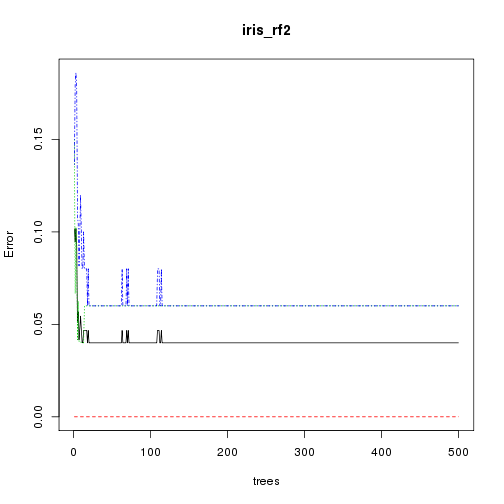
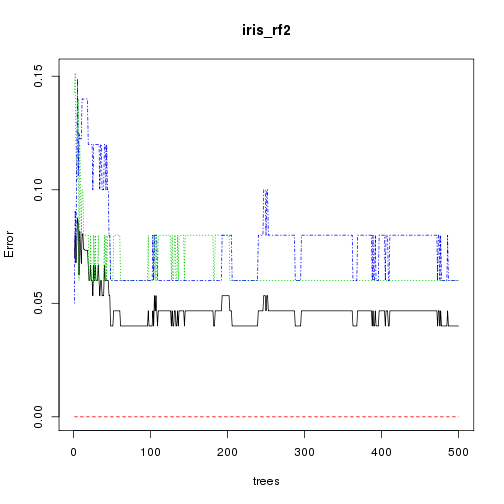
automatic build of site

diff --git a/_posts/2015-01-15-06-Analyze.md b/_posts/2015-01-15-06-Analyze.md
@@ -54,12 +54,12 @@ iris_rf
 ##                      Number of trees: 500
 ## No. of variables tried at each split: 2
 ## 
-##         OOB estimate of  error rate: 4%
+##         OOB estimate of  error rate: 4.67%
 ## Confusion matrix:
 ##            setosa versicolor virginica class.error
 ## setosa         50          0         0        0.00
 ## versicolor      0         47         3        0.06
-## virginica       0          3        47        0.06
+## virginica       0          4        46        0.08
 {% endhighlight %}
 
 Can we predict species, well, I'd say so!  
@@ -121,4 +121,28 @@ For this exercise we are going to implement random forest and try to predict the
 1. Add a new secion to the script
 2. Build your model to predict RT_NLA.  You may specify the model however makes the most sense
 3. Print to the screen your result, plot the error and variable importance. When finished put a green sticky up and we will come around to check.
+
+##Learning a New Package
+
+As of Jan 12, 2015, there were 6187 packages available on [CRAN](http://cran.r-project.org/web/packages/).  Since these packages are created and maintained by many different authors, the ways in which you can get help on a specific package and the quality of that assistance can vary greatly.  That being said, there are a few indicators of decent help within a given package.
+
+First, if a package has a vignette that is usually a good first place to start.  To list the vignettes for a given package you can use the `vignette()` function.  For instance:
+
+
+{% highlight r %}
+vignette(package="knitr")
+{% endhighlight %}
+
+Second, it is becoming increasingly common to see journal articles about packages.  Many journals now accept software manuscripts, but the journals I most often use for finding out about new R packages are:
+
+*note: This is a VERY incomplete list...*
+
+- [Journal of Statistical Software](http://www.jstatsoft.org/)
+- [R Journal](http://journal.r-project.org/)
+- [F1000 Research](http://f1000research.com/search?q=R%20Package&sortingBy=&sortingOrder=&indexed=&articleTypes=SOFTWARE_TOOLS)
+- [PLoS One](http://www.plosone.org/search/simple?from=globalSimpleSearch&filterJournals=PLoSONE&query=R+Package&x=0&y=0)
+
+Third, the last resort is of course [Google](http://www.google.com)!  
+
+
 

diff --git a/rmd_posts/2015-01-15-06-Analyze.md b/rmd_posts/2015-01-15-06-Analyze.md
@@ -54,12 +54,12 @@ iris_rf
 ##                      Number of trees: 500
 ## No. of variables tried at each split: 2
 ## 
-##         OOB estimate of  error rate: 4%
+##         OOB estimate of  error rate: 4.67%
 ## Confusion matrix:
 ##            setosa versicolor virginica class.error
 ## setosa         50          0         0        0.00
 ## versicolor      0         47         3        0.06
-## virginica       0          3        47        0.06
+## virginica       0          4        46        0.08
 {% endhighlight %}
 
 Can we predict species, well, I'd say so!  
@@ -121,4 +121,28 @@ For this exercise we are going to implement random forest and try to predict the
 1. Add a new secion to the script
 2. Build your model to predict RT_NLA.  You may specify the model however makes the most sense
 3. Print to the screen your result, plot the error and variable importance. When finished put a green sticky up and we will come around to check.
+
+##Learning a New Package
+
+As of Jan 12, 2015, there were 6187 packages available on [CRAN](http://cran.r-project.org/web/packages/).  Since these packages are created and maintained by many different authors, the ways in which you can get help on a specific package and the quality of that assistance can vary greatly.  That being said, there are a few indicators of decent help within a given package.
+
+First, if a package has a vignette that is usually a good first place to start.  To list the vignettes for a given package you can use the `vignette()` function.  For instance:
+
+
+{% highlight r %}
+vignette(package="knitr")
+{% endhighlight %}
+
+Second, it is becoming increasingly common to see journal articles about packages.  Many journals now accept software manuscripts, but the journals I most often use for finding out about new R packages are:
+
+*note: This is a VERY incomplete list...*
+
+- [Journal of Statistical Software](http://www.jstatsoft.org/)
+- [R Journal](http://journal.r-project.org/)
+- [F1000 Research](http://f1000research.com/search?q=R%20Package&sortingBy=&sortingOrder=&indexed=&articleTypes=SOFTWARE_TOOLS)
+- [PLoS One](http://www.plosone.org/search/simple?from=globalSimpleSearch&filterJournals=PLoSONE&query=R+Package&x=0&y=0)
+
+Third, the last resort is of course [Google](http://www.google.com)!  
+
+
 
